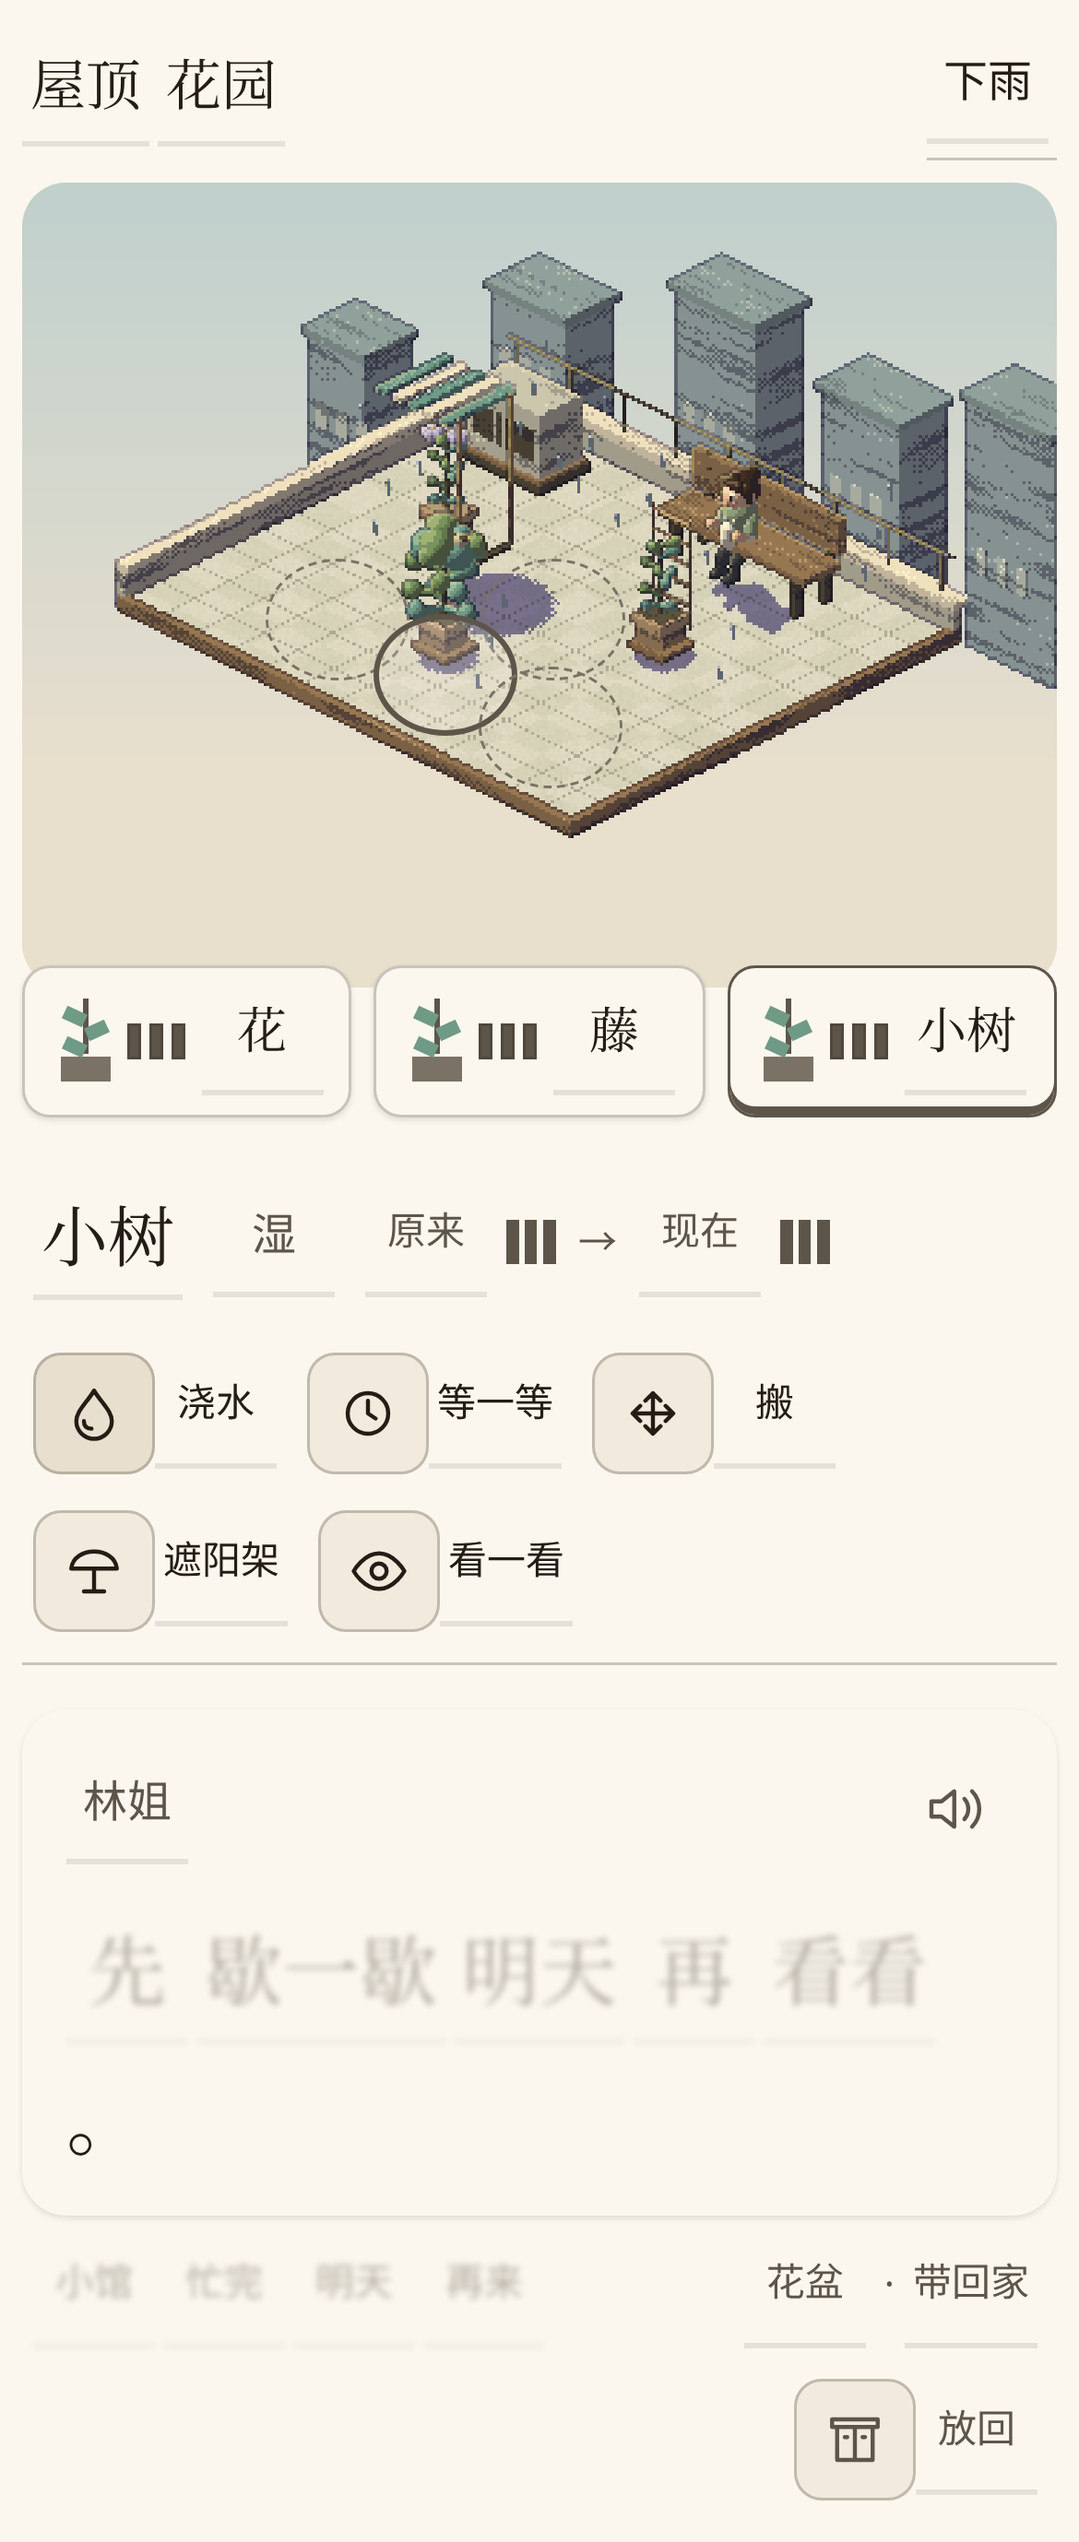
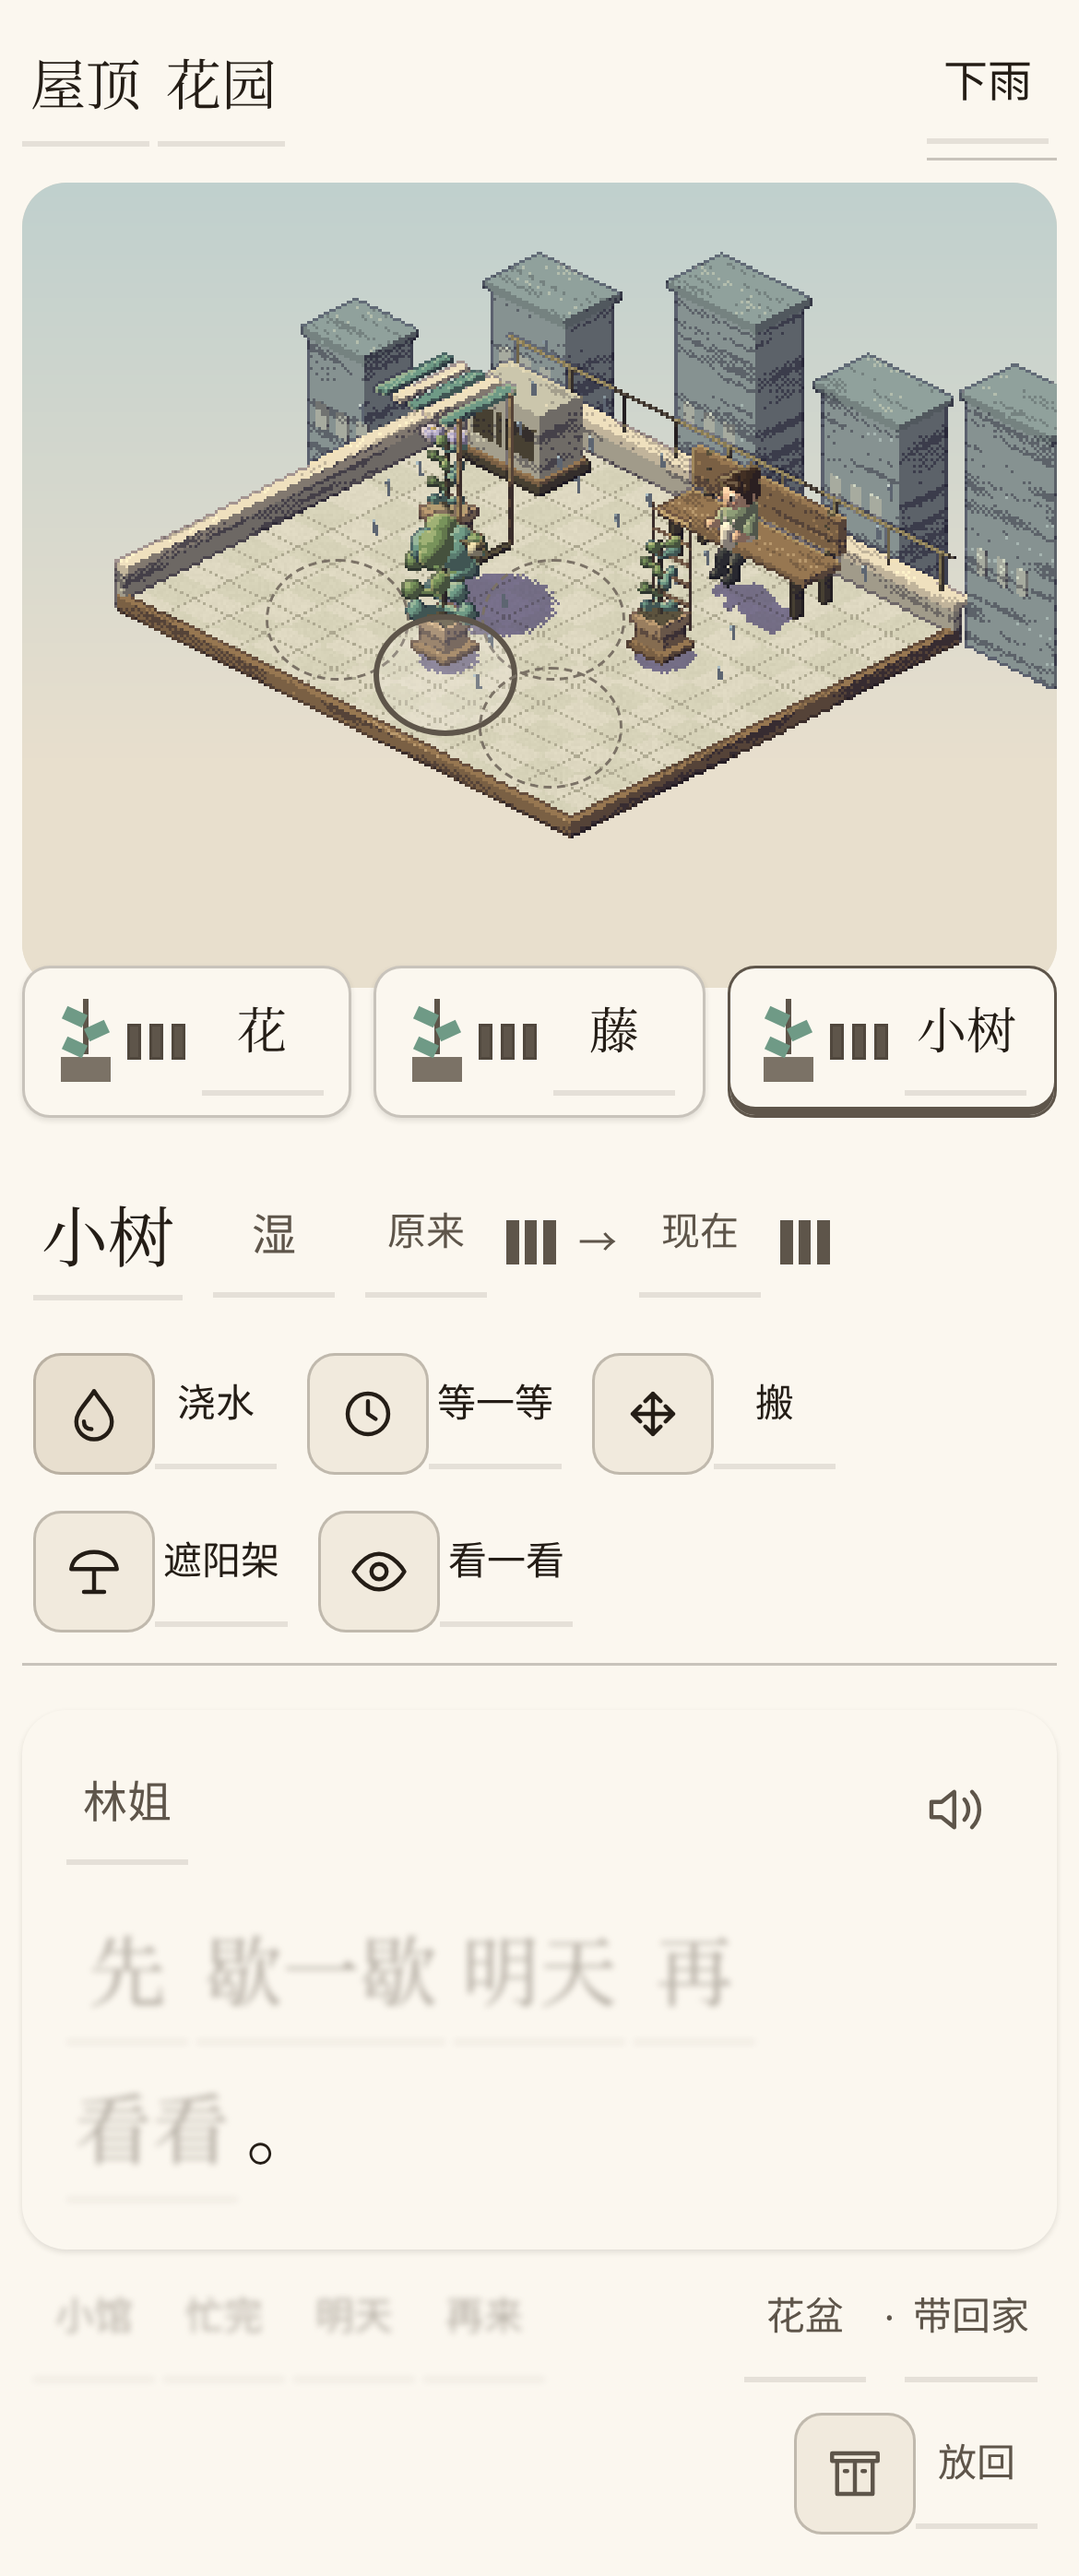
Polish mature garden and record Node22 verification

diff --git a/src/features/garden/index.tsx b/src/features/garden/index.tsx
@@ -40,8 +40,11 @@ export default function Garden(props: GardenProps) {
   const ready = state.day === day;
   const pot = state.plants[selected];
   const recovered = new Set(recoveredWordIds), fresh = new Set(freshWordIds);
-  const text = (value: Pick<Line, 'id' | 'tokens'>) => value.tokens.map((word, index) => <WordToken key={`${word.id}-${index}`} word={word}
-    look={fresh.has(word.id) ? 'dot' : value.id.startsWith('garden.label-') || recovered.has(word.id) ? 'plain' : 'fogged'} onLookup={onLookup}/>);
+  const text = (value: Pick<Line, 'id' | 'tokens'>, punctuation = false) => value.tokens.map((word, index) => {
+    const token = <WordToken key={`${word.id}-${index}`} word={word}
+      look={fresh.has(word.id) ? 'dot' : value.id.startsWith('garden.label-') || recovered.has(word.id) ? 'plain' : 'fogged'} onLookup={onLookup}/>;
+    return punctuation && index === value.tokens.length - 1 ? <span className="garden-final-token" key={`${word.id}-${index}`}>{token}。</span> : token;
+  });
   const name = (id: string) => label(id).tokens.map(word => word.hanzi).join('');
   useEffect(() => {if (!ready) onAction({type: 'sync'});}, [day, ready, onAction]);
   useEffect(() => {setNotice(null); setConfirm(null); setMoving(null);}, [day]);
@@ -140,7 +143,7 @@ export default function Garden(props: GardenProps) {
       </div>
       <div className="garden-conversation" aria-live="polite">
         <div className="garden-speaker">{text(label('lin'))}<button type="button" aria-label={name('listen')} className="garden-replay" onClick={() => onPlay(line(speak))}><Icon kind="listen"/></button></div>
-        <p className="garden-spoken" data-testid="garden-dialogue">{text(line(speak))}<span aria-hidden="true">。</span></p>
+        <p className="garden-spoken" data-testid="garden-dialogue">{text(line(speak), true)}</p>
       </div>
       <footer className="garden-footer">
         <p>{text(line('day-help'))}</p>

diff --git a/src/features/garden/scene.ts b/src/features/garden/scene.ts
@@ -103,10 +103,11 @@ export function gardenScene(): Scene<[state: State, time: number]> {
           sphere(x + Math.cos(a) * .32 + lean, y + Math.sin(a) * .32, top - .12 + (crown % 2) * .18, .29 + pot.growth * .025, crown % 2 ? leaf : jade, 'solid');
         }
         if (id === 'tree' && pot.growth === 3) {
-          sphere(x + .45, y, top + .21, .15, [192, 179, 138], 'solid');
-          sphere(x + .57, y, top + .33, .1, dark, 'solid');
-          capsule([x + .4, y, top + .2], [x + .15, y + .1, top + .3 + sway], .1, .025, () => dark, 'solid');
-          sphere(x + .67, y, top + .32, .045, [211, 180, 99], 'solid');
+          capsule([x + .3, y, top - .1], [x + .94, y, top + .03], .055, .03, () => dark, 'solid');
+          sphere(x + .86, y, top + .2, .16, [215, 203, 161], 'solid');
+          sphere(x + .99, y, top + .32, .105, dark, 'solid');
+          capsule([x + .8, y, top + .19], [x + .58, y + .1, top + .32 + sway], .1, .025, () => dark, 'solid');
+          sphere(x + 1.09, y, top + .31, .045, [211, 180, 99], 'solid');
         }
         castShadow(x, y, .3, .55);
       }

diff --git a/src/features/garden/garden.css b/src/features/garden/garden.css
@@ -37,6 +37,7 @@
 .garden-conversation {padding: 20px 24px; background: var(--surface-card); border-radius: var(--radius-panel); margin-top: 16px; box-shadow: var(--shadow-chip);}
 .garden-speaker {display: flex; align-items: center; justify-content: space-between; color: var(--text-secondary); font-size: 16px;}
 .garden-spoken {font-family: var(--font-serif); font-size: 30px; line-height: 1.6; margin: 8px 0 0;}
+.garden-final-token {display: inline-flex; align-items: baseline; white-space: nowrap;}
 .garden-replay {background: transparent; border-color: transparent;}
 .garden-footer {display: flex; align-items: center; justify-content: space-between; flex-wrap: wrap; gap: 4px 16px; color: var(--text-secondary); font-size: 14px; padding: 8px;}
 .garden-footer p {margin: 0;}

diff --git a/e2e/garden.spec.ts b/e2e/garden.spec.ts
@@ -109,6 +109,7 @@ test('isolated garden care, deliberate mistake, recovery, placement and vocabula
     await nextDay(page);
     await expect.poll(async () => (await state(page)).day).toBe(snapshot.day + i + 1);
   }
+  await expect.poll(() => page.evaluate(() => window.__GARDEN_TEST__!.plays())).toContain('garden.mature-result');
   await page.screenshot({path: `evidence/0070/${info.project.name}-retreat.png`, fullPage: true});
   const metrics = await page.evaluate(() => ({
     overflow: document.documentElement.scrollWidth > innerWidth,

diff --git a/evidence/0070/verification.md b/evidence/0070/verification.md
@@ -6,7 +6,7 @@ This evidence covers ticket 0070 in its isolated cloud checkout. Shared integrat
 
 The worker is `/root/garden_writer`, requested model GPT-6.1 Sol at medium effort. Strict dev port is 5470 and preview is 5471. Browser runs use system `/usr/bin/chromium` through optional `JUNYAN_CHROMIUM_EXECUTABLE`; Chromium downloads returned policy HTTP 403. All browser launches retain `--mute-audio`. Actual listening is a separate open gate.
 
-Installed `node_modules` is linked from `/workspace/junyan` and matches this checkout's frozen lock versions, including React 19.3.1, Vite 7.3.7, Zod 4.6.7 and Playwright 1.64.1. The managed shell reports Node 24.22.1. The repository requests Node 22; this environment difference is recorded. No dependency or lockfile changed. Direct binaries avoid `pnpm exec`'s attempted automatic modules reinstallation across the symlink.
+Installed `node_modules` is linked from `/workspace/junyan` and matches this checkout's frozen lock versions, including React 19.3.1, Vite 7.3.7, Zod 4.6.7 and Playwright 1.64.1. Early checks used the default Node 24.22.1. Final post-rebase checks and Vite run with the installed project-required Node 22.23.4 from `/workspace/.junyan-tools/node_modules/node/bin`, prepended to PATH. No dependency or lockfile changed. Direct binaries avoid `pnpm exec`'s attempted automatic modules reinstallation across the symlink.
 
 ## Reproduce
 
@@ -20,9 +20,9 @@ Start `./node_modules/.bin/vite --host 127.0.0.1 --port 5470 --strictPort` from 
 
 ## Results
 
-All 184 unit tests pass across 13 files. The feature contributes 15 tests covering pure care, bounded day settlement, rollback, same-day idempotence, first-arrival rain, placement, shade, stage caps, gift eligibility, save validation, canonical content and recovery registration. See `unit-results.txt`. The existing hospital, restaurant and save journey also passes all six desktop/phone checks in `existing-results.json`.
+All 185 unit tests pass across 13 files. The feature contributes 15 tests covering pure care, bounded day settlement, rollback, same-day idempotence, first-arrival rain, placement, shade, stage caps, gift eligibility, save validation, canonical content and recovery registration. See `unit-results.txt`. The existing hospital, restaurant and save journey also passes all six desktop/phone checks in `existing-results.json`.
 
-The isolated garden journey passes desktop and phone. See `browser-results.json`. It checks real action controls, modal focus, double-click safety, pooled-care state, next-day droop and growth dialogue, recoverability, occupied-site refusal, Escape, moving back, reversible shade, token lookup, no default pinyin/English, playback callbacks, exposed rain, durable gift eligibility, serialized snapshot restoration, no duplicate recovery on restore, at least 44px targets, at least 28px spoken text, no overflow and zero browser console/page errors. The harness records playback calls without pretending unavailable voice assets exist. Snapshot reinjection is not actual central save/reload proof.
+The isolated garden journey passes desktop and phone. See `browser-results.json`. It checks real action controls, modal focus, double-click safety, pooled-care state, next-day droop and growth dialogue, recoverability, occupied-site refusal, Escape, moving back, reversible shade, token lookup, no default pinyin/English, playback callbacks, exposed rain, durable gift eligibility, serialized snapshot restoration, mature retreat playback, no duplicate recovery on restore, at least 44px targets, at least 28px spoken text, no overflow and zero browser console/page errors. The harness records playback calls without pretending unavailable voice assets exist. Snapshot reinjection is not actual central save/reload proof.
 
 `desktop-initial.png` and `phone-initial.png` record the rejected first design with fogged captions. Final `garden-*-welcome.png`, `garden-*-wet-warning.png`, `garden-*-rain-growth.png` and `garden-*-retreat.png` supersede them. The writer inspected actual phone and desktop captures. Interface labels now use plain shared WordToken look; dialogue keeps the existing shared fog. Progress uses neutral ink. The world uses Pixel Plays primitives, existing 林姐 character rig, shade geometry, visible rain, distinct plant growth and eventual tree crown/bird/bench retreat.
 

diff --git a/docs/tickets/0070-rooftop-garden.md b/docs/tickets/0070-rooftop-garden.md
@@ -45,3 +45,5 @@ Owner: garden lead, then one GPT-6.1 Sol medium implementation owner. Branch cod
 Implementation worker /root/garden_writer. Requested model GPT-6.1 Sol, medium. Cloud /workspace/garden-0070, branch codex/0070-rooftop-garden. Strict Vite 5470 and preview 5471. Existing plan and refinements retained.
 
 Draft PR [20](https://github.com/CallumHemsley/junyan/pull/20) is parent-managed. First published rules/design commit 6b0bb47. Feature-local browser harness is development-only and does not close shared navigation, IndexedDB, journal, offline or voice gates.
+
+Code-ready head 14672f5 rebased onto main 5c90ba4. Final checks use Node 22.23.4. All 185 unit tests, build, isolated garden desktop/phone 2/2 and existing hospital/restaurant/save desktop/phone 6/6 pass. Final screenshots inspected. Audio manifest has 91 pinned jobs with 82 missing assets. Shared integration, actual offline garden playback/listening and independent integrated review remain open. Evidence: `evidence/0070/verification.md` and `runtime.json`.
